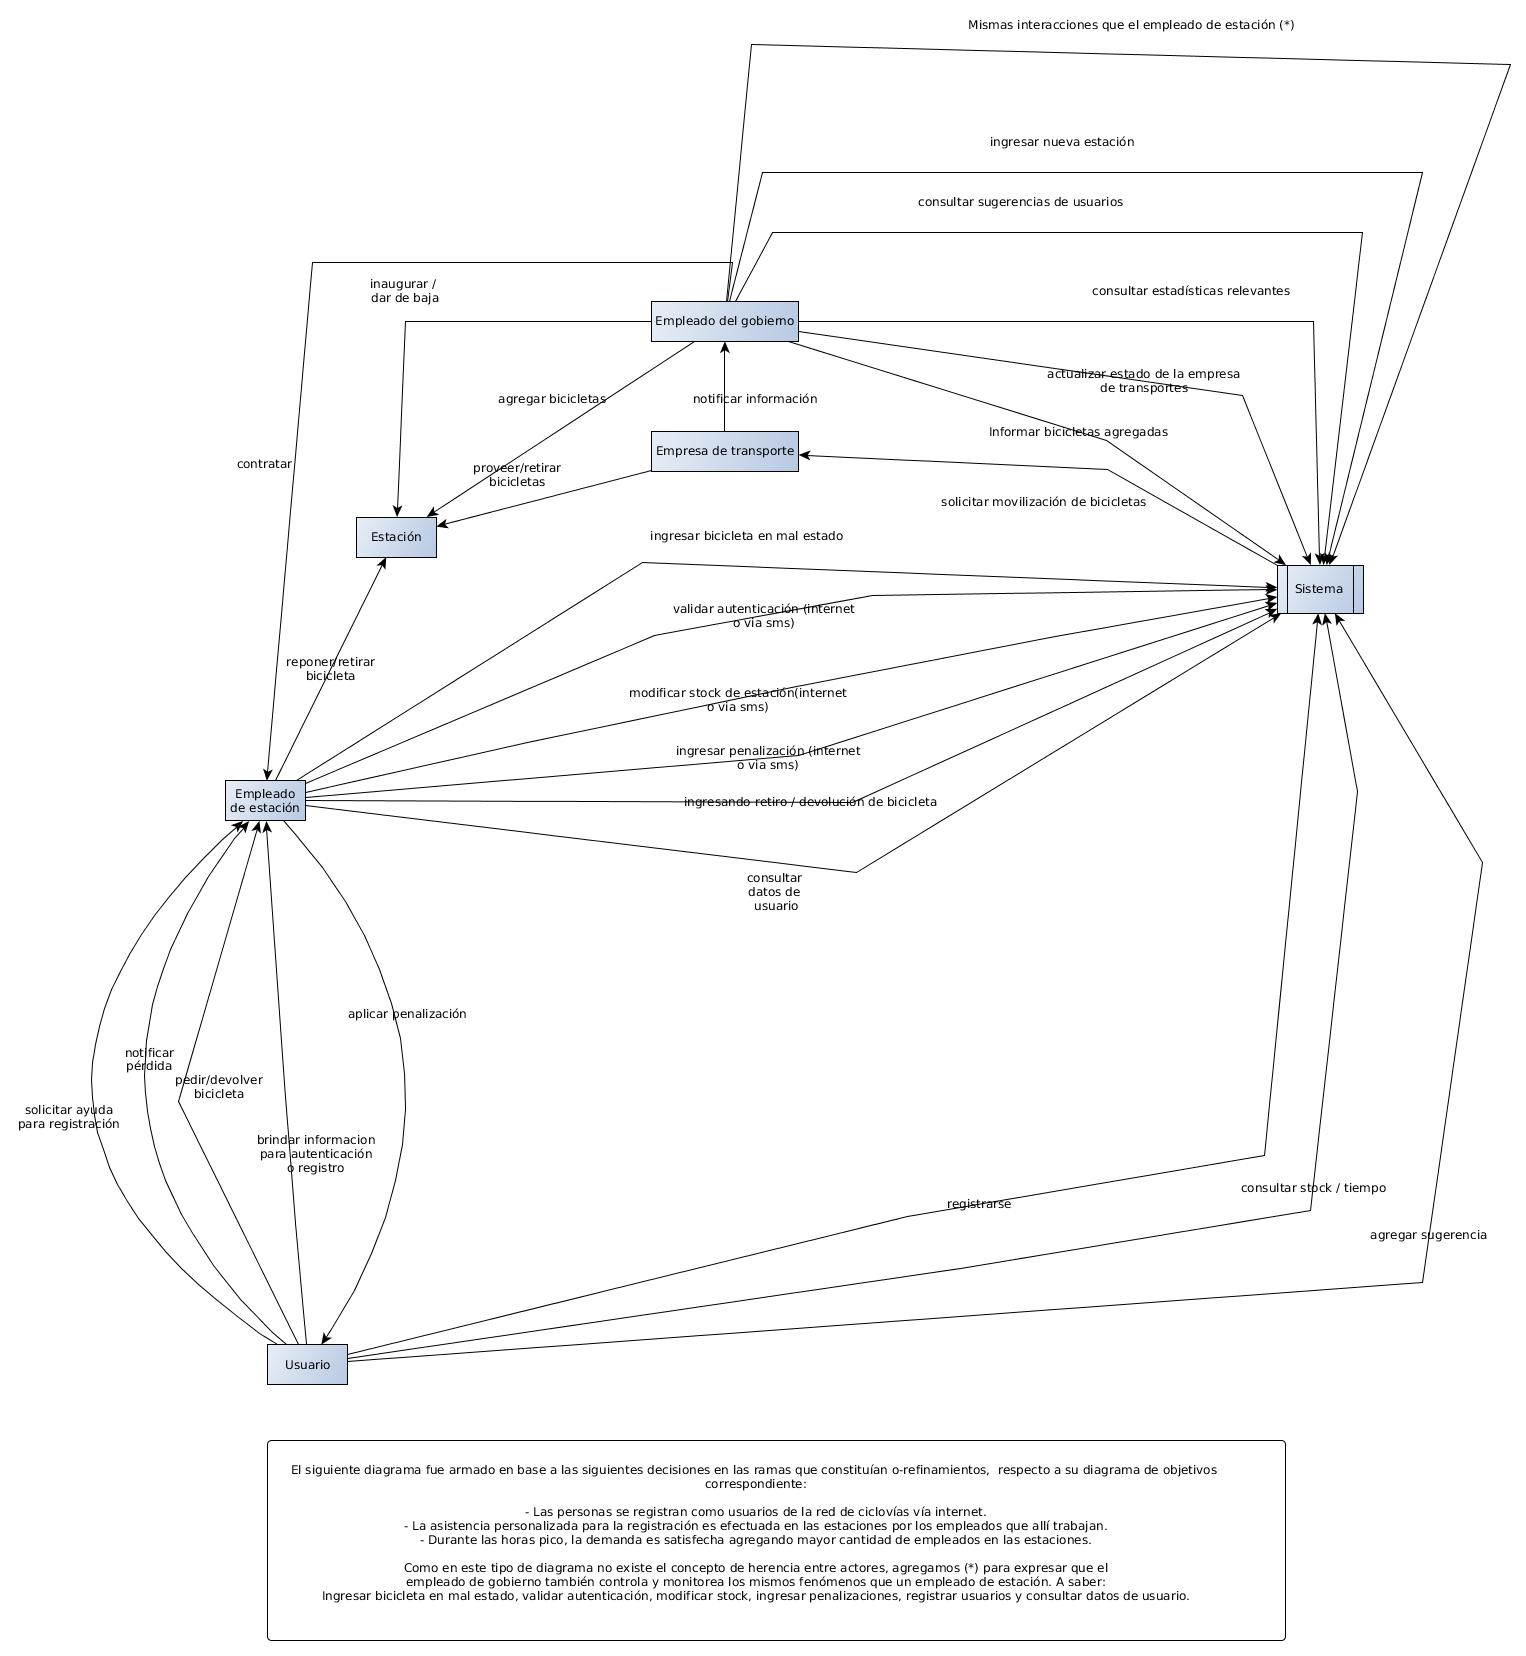
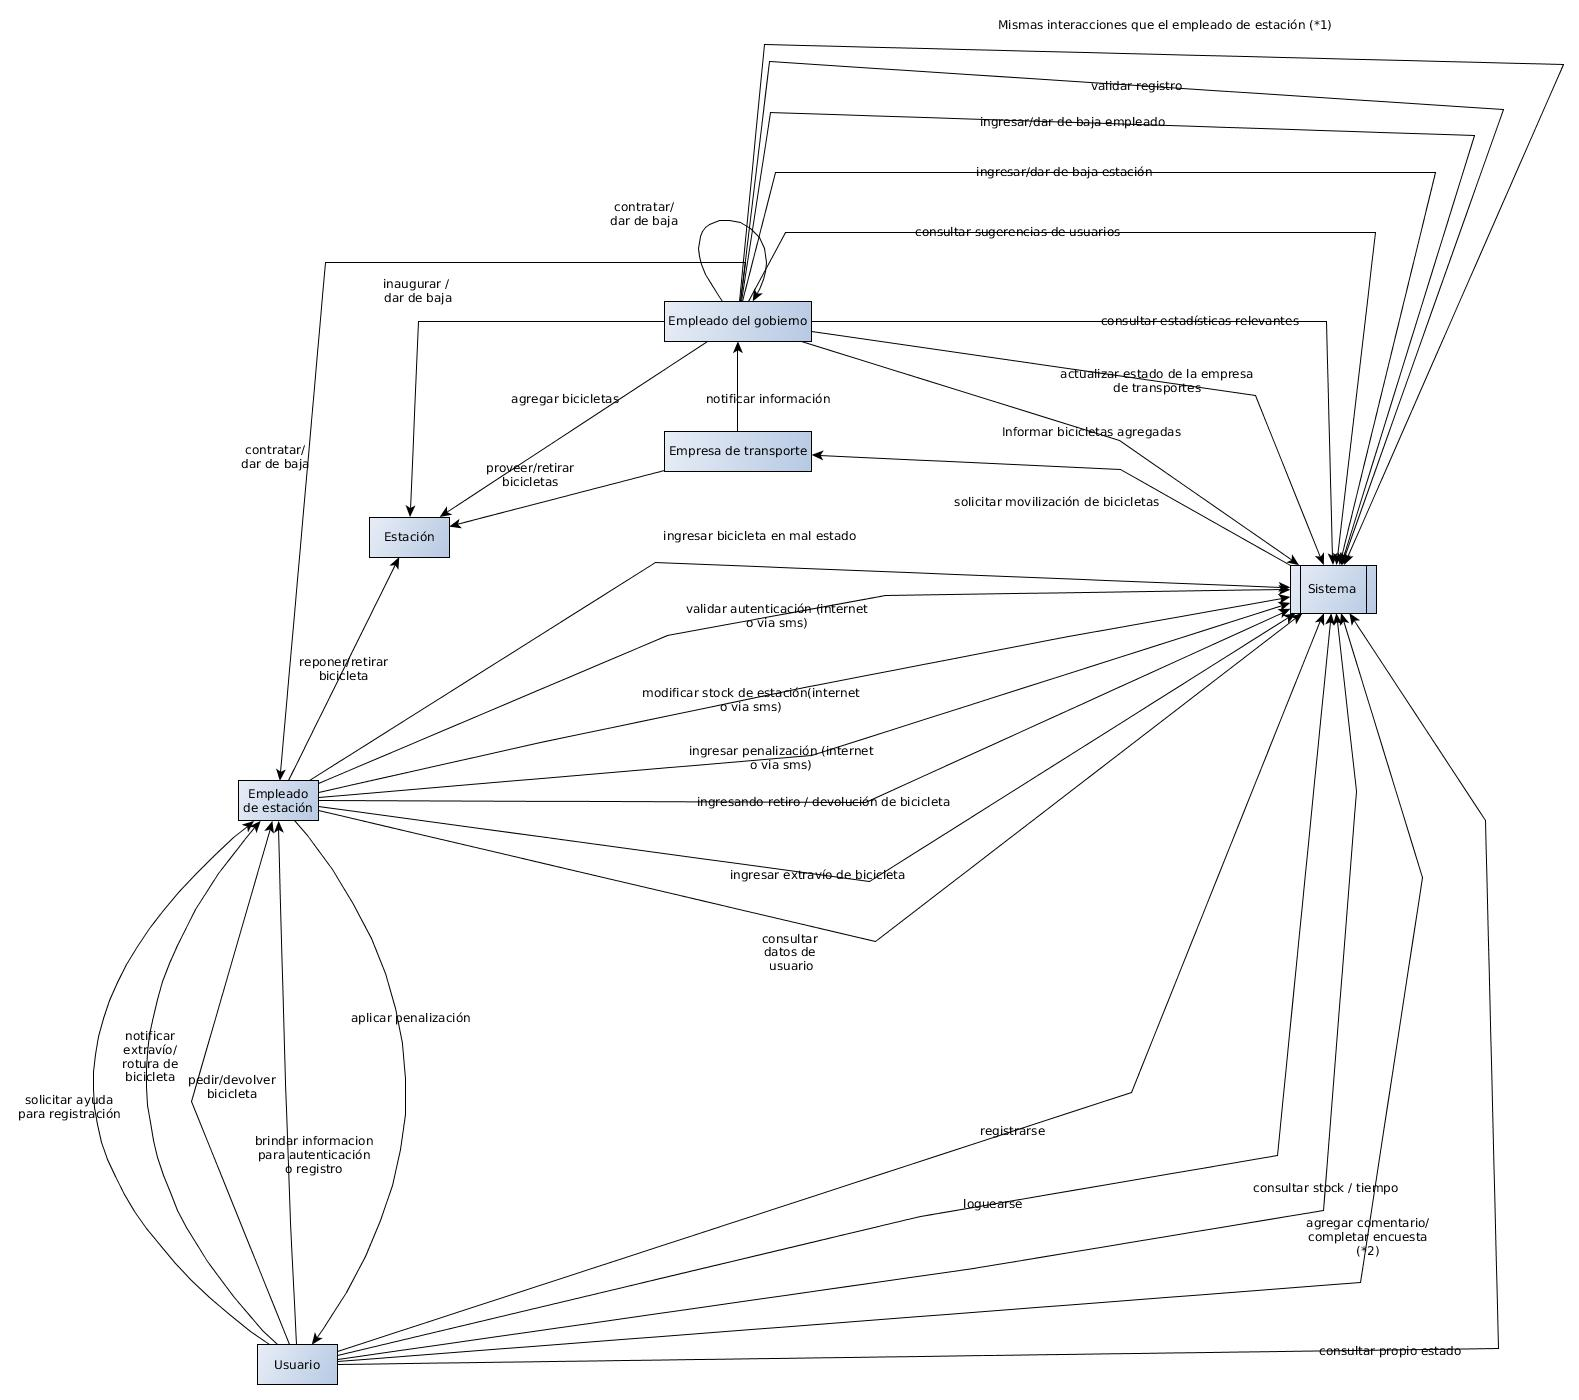
cambios en diagrama de contexto y diagrama_contexto.tex

diff --git a/diagrama_contexto.tex b/diagrama_contexto.tex
@@ -1,7 +1,22 @@
-
 Es de nuestro interés exhibir cómo es la interacción entre los distintas entidades del mundo y el sistema que diseñamos.
 
-A continuación presentamos un diagrama de Contexto. Este tipo de diagrama separa los fenómenos de las entidades que los controlan y/o monitorean. Cada una de estas entidades o agentes, cumple un rol determinado e interactúa con otros agentes o con el sistema.
+A continuación presentamos un diagrama de Contexto. Este tipo de diagrama separa los fenómenos de las entidades que los controlan y/o monitorean. Cada una de estas entidades o agentes, cumple un rol determinado e interactúa con otros agentes y/o con el sistema. Además, nos permite mostrar de forma concreta el alcance de nuestro software.
+
+El  diagrama fue armado en base a las siguientes decisiones en las ramas que constituían o-refinamientos en su diagrama de objetivos correspondiente:
+
+\begin{itemize}
+\item Las personas se registran como usuarios de la red de ciclovías vía internet (registración automatizada).
+\item La asistencia personalizada para la registración es efectuada en las estaciones por los empleados que allí trabajan.
+\item Durante las horas pico, la demanda es satisfecha agregando mayor cantidad de empleados en las estaciones.
+\item Los usuarios se registran brindando DNI, mail, teléfono de contacto, domicilio y contraseña para poder loguearse, 
+\end{itemize}
+
+Como en este tipo de diagrama no existe el concepto de herencia entre actores, agregamos (*1) para expresar que el
+empleado de gobierno también controla y monitorea los mismos fenómenos que un empleado de estación. A saber:
+Ingresar bicicleta en mal estado, validar autenticación, modificar stock, ingresar penalizaciones, registrar usuarios y consultar datos de usuario.
+
+(*2) Los usuarios pueden dejar comentarios tanto respecto a salud, funcionamiento general del sistema y lugares donde agregar nuevas estaciones.
+También pueden completar las encuestas en relación a este último punto.
 
 \begin{figure}[H]
 	\begin{center}
@@ -11,7 +26,6 @@ A continuación presentamos un diagrama de Contexto. Este tipo de diagrama separ
 	\end{center}
 \end{figure}
 
-Los eventos relacionados con nuestra red de ciclovías son controlados y monitoreados por distintos agentes. Cada uno de ellos cumple una función única dentro de la red.
 Los usuarios comienzan registrándose por internet brindando los datos requeridos. Entre ellos se destacan principalmente el número de DNI y el nombre completo, ya que ambos serán utilizados
 para validar la identidad cada vez que quieran hacer uso de la red. 
 
